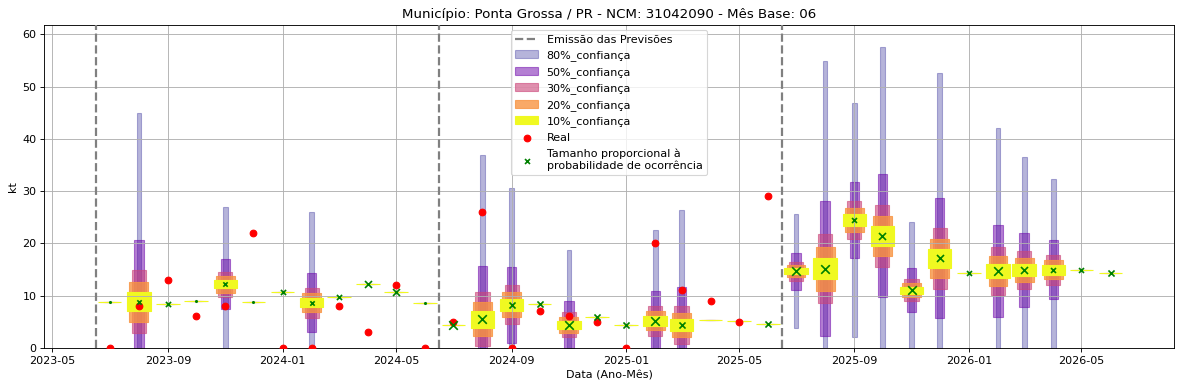
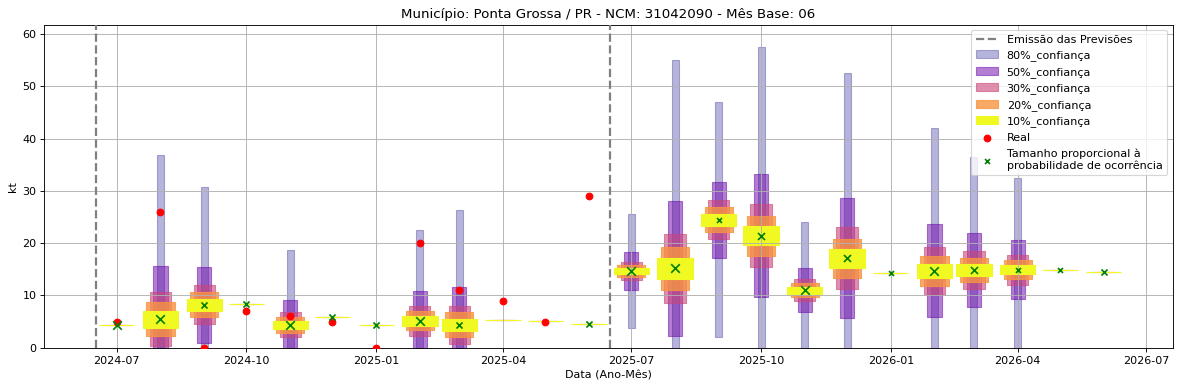
Atualização automática em lote

diff --git a/README.md b/README.md
@@ -16,79 +16,60 @@
 
 
 ![Gráfico de Previsão](31022100.png)
-
-Fator de Influência em Destaque nos últimos 8 anos:
-
+Fator de Influência em Destaque:
 Previsão Influenciada:
 - Município: Ponta Grossa
 - Produto (NCM): Sulfato de amônio-31022100 
-- Mês: 08
+- Mês previsto: 08
 
 
-Fator Influenciador: Comércio Exterior
-- Produto: Sementes e frutos oleaginosos; grãos, sementes e frutos diversos; plantas industriais ou medicinais; palhas e forragens (12)
-- UF: SP
-- Unidade: sm_diff
-
-
-
-
+Fator Influenciador: Comex
+- Município: Maringá
+- Produto (NCM): Diidrogeno-ortofosfato de amônio (fosfato monoamônico ou monoamoniacal), mesmo misturado com hidrogeno-ortofosfato de diamônio (fosfato diamônico ou diamoniacal)-31054000 
+- Mês previsto: 12
+- Unidade: kt_lag12
 
 
 
 
 
 
-.
 
 ![Gráfico de Previsão](31042090.png)
-
-Fator de Influência em Destaque nos últimos 8 anos:
-
+Fator de Influência em Destaque:
 Previsão Influenciada:
 - Município: Ponta Grossa
 - Produto (NCM): Outros cloretos de potássio-31042090 
-- Mês: 01
+- Mês previsto: 01
 
 
-Fator Influenciador: Comércio Exterior
-- Produto: Adubos (fertilizantes) (31)
-- UF: RJ
-- Unidade: kt_lag13
-
-
-
-
+Fator Influenciador: Comex
+- Município: Maringá
+- Produto (NCM): Diidrogeno-ortofosfato de amônio (fosfato monoamônico ou monoamoniacal), mesmo misturado com hidrogeno-ortofosfato de diamônio (fosfato diamônico ou diamoniacal)-31054000 
+- Mês previsto: 12
+- Unidade: kt_lag12
 
 
 
 
 
 
-.
 
 ![Gráfico de Previsão](31054000.png)
-
-Fator de Influência em Destaque nos últimos 8 anos:
-
+Fator de Influência em Destaque:
 Previsão Influenciada:
 - Município: Ponta Grossa
 - Produto (NCM): Diidrogeno-ortofosfato de amônio (fosfato monoamônico ou monoamoniacal), mesmo misturado com hidrogeno-ortofosfato de diamônio (fosfato diamônico ou diamoniacal)-31054000 
-- Mês: 08
+- Mês previsto: 08
 
 
-Fator Influenciador: Comércio Exterior
-- Produto: Sementes e frutos oleaginosos; grãos, sementes e frutos diversos; plantas industriais ou medicinais; palhas e forragens (12)
-- UF: MA
-- Unidade: sm_diff
-
-
-
-
+Fator Influenciador: Comex
+- Município: Maringá
+- Produto (NCM): Diidrogeno-ortofosfato de amônio (fosfato monoamônico ou monoamoniacal), mesmo misturado com hidrogeno-ortofosfato de diamônio (fosfato diamônico ou diamoniacal)-31054000 
+- Mês previsto: 12
+- Unidade: kt_lag12
 
 
 
 
 
-
-.
